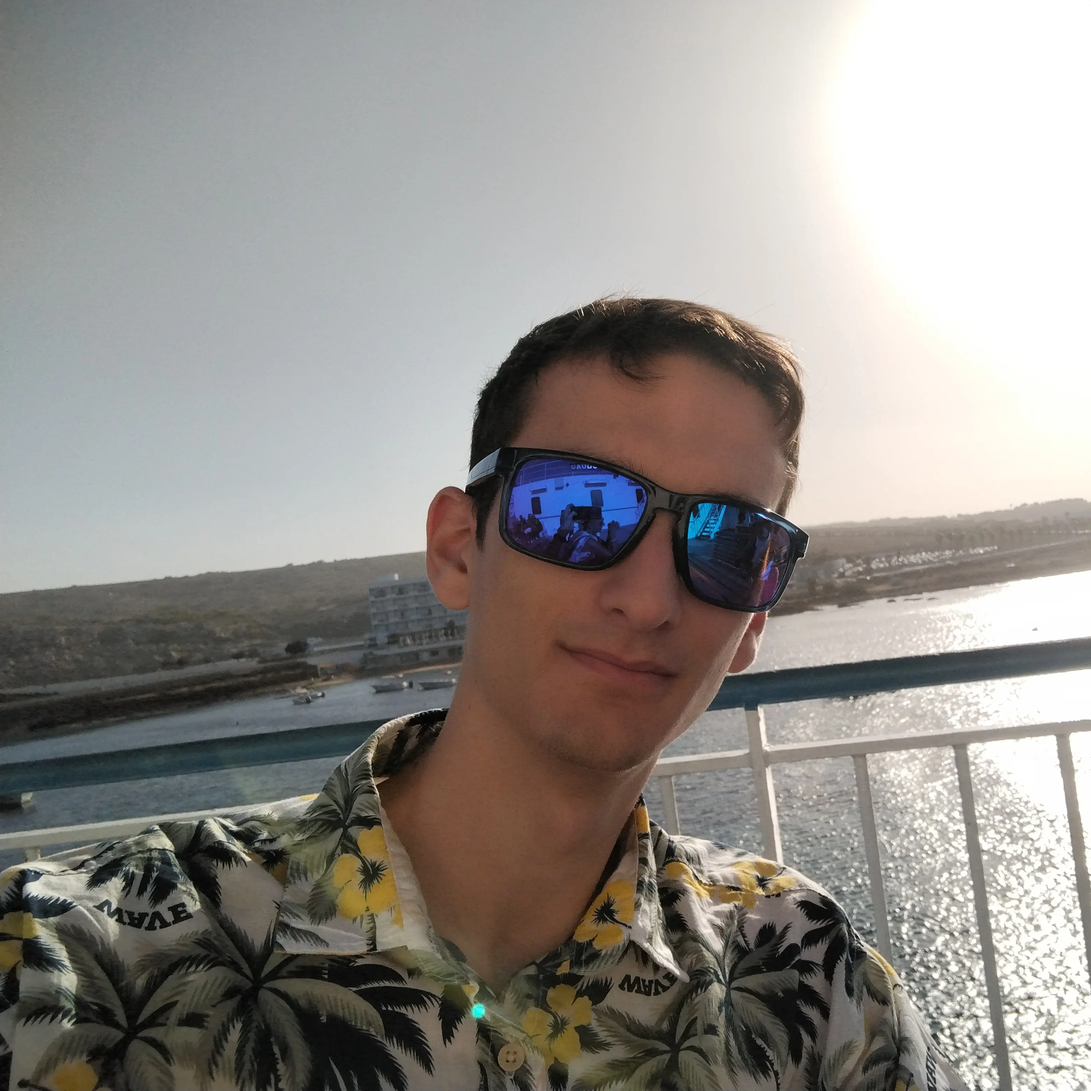
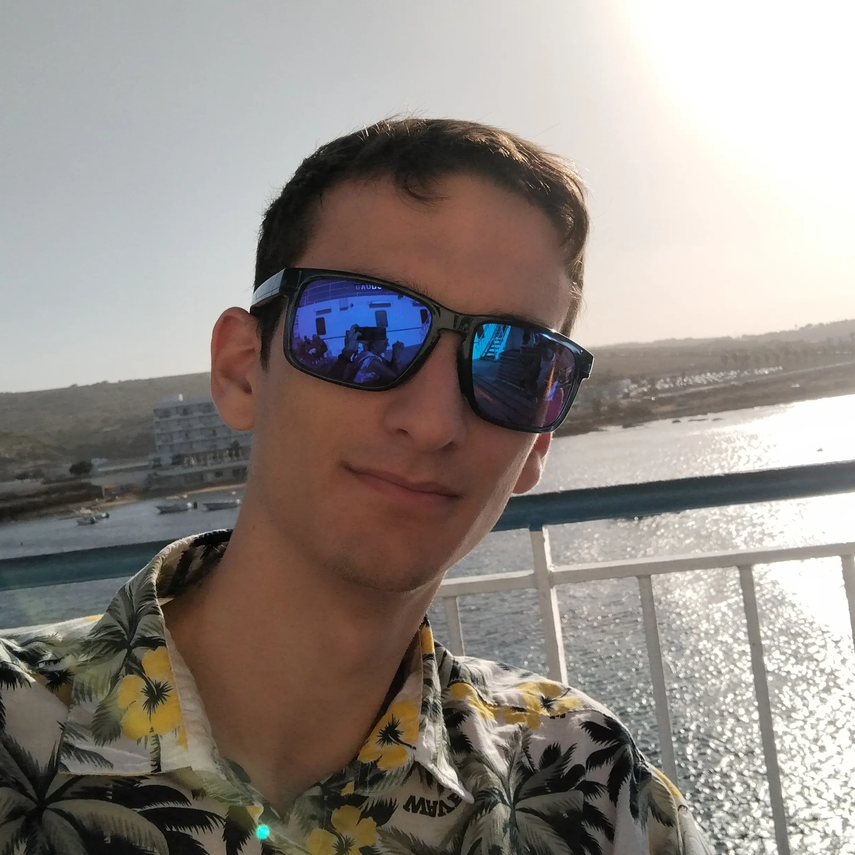
feat: change texts, images (#1)
* build: move compiled css to dist folder

* feat: add main responsive layout css

* feat: add custom colors

* feat: add gitlab icon

* feat: improve responsive layout

* fix: hero image overlap on navbar

* feat: add accessibility tags

* feat: switch image profile

* feat: rewrite texts, change hero image

diff --git a/src/index.html b/src/index.html
@@ -88,7 +88,7 @@
         <div
           class="flex gap-20 justify-center items-center lg:flex-col sm:gap-5">
           <img
-            src="./media/images/nioIngrandito.webp"
+            src="./media/images/malta2.webp"
             alt="profile image"
             class="max-w-[500px] rounded-full md:w-full p-5" />
           <!-- hero text -->
@@ -113,24 +113,20 @@
         <div class="max-w-sm lg:max-w-xl md:mx-14 sm:mx-4">
           <h2 class="mb-5 text-3xl">My skills</h2>
           <p class="text-justify">
-            Currently, I am a student at ITTS O. Belluzzi in Rimini, Italy. Over
-            the past few years, I have focused on C# as my primary programming
-            language, building a strong foundation in Object-Oriented
-            Programming.
+            As a student at ITTS O. Belluzzi in Rimini, Italy, I have developed
+            a strong foundation in Object-Oriented Programming with a primary
+            focus on C#.
             <br />
-            Additionally, I have studied C, JavaScript, and Assembly 8086 as
-            supplementary languages. At present, I am acquiring network
-            management skills using Cisco Packet Tracer.
+            In addition, I have studied supplementary languages such as C,
+            JavaScript, and Assembly 8086. Currently, I am acquiring network
+            management skills using Cisco Packet Tracer, and this year, I am
+            delving into the intricacies of database design and manipulation
+            through the study of database science.
           </p>
           <br />
           <p class="text-justify">
-            This year, I am studying database science, delving into the
-            intricacies of database design and manipulation.
-          </p>
-          <br />
-          <p class="text-justify">
-            Recently, I switched to using Linux as my primary operating system
-            and find it incredibly convenient.
+            I switched to using Linux as my primary operating system and
+            dual-booting with Windows 11 (I use Arch btw 🚀)
           </p>
         </div>
         <!-- tools-box-work -->
@@ -226,39 +222,40 @@
         <div>
           <h2 class="mt-5 mb-4 text-3xl">About myself</h2>
           <p>
-            Hello, my name is Federico Cangiotti and I'm 18 years old and my
-            main hobbies are music, swimming and trekking.
+            Hello, I am Federico Cangiotti, I'm 18-year-old and I enjoy music,
+            swimming and trekking.
           </p>
           <p>
-            Usually I don't travel far from home, but recently I left Italy for
-            the first time and visited Malta.
+            Although I typically stay close to home, I am always eager to
+            explore new places and try new things.
             <br />
-            It was very beautiful.
+            My recent trip to Malta was a beautiful experience (first time I
+            left Italy)
           </p>
           <br />
           <p>
-            My favorite type of music is jazz, blues, and soul, and sometimes, I
-            also enjoy listening to other genres, such as rock (Queen), pop, and
-            soundtracks from movies or video games. I create my own playlists
-            featuring artists like Raphael Gualazzi for my jazz music.
+            I have a diverse taste in music, ranging from jazz, blues, and soul
+            to rock, pop, and soundtracks from movies or video games. My jazz
+            playlists often feature artists like Raphael Gualazzi.
           </p>
           <p>
-            These playlists are made from me:
-            <span>
+            I curated these playlists myself:
+            <li>
               <a
+                class="underline"
                 href="https://open.spotify.com/playlist/0pWlrhsiYyXSqO7UqcVAK2?si=2e41c38447f54e0c"
                 aria-label="Link to spotify jazz playlist">
                 Jazz
               </a>
-            </span>
-            ,
-            <span>
+            </li>
+            <li>
               <a
+                class="underline"
                 href="https://open.spotify.com/playlist/13fsXhXuXIs1XzAjLAUdF8?si=f1b49cd8d84b440e"
                 aria-label="Link to spotify gualazzi playlist">
                 Raphael Gualazzi
               </a>
-            </span>
+            </li>
           </p>
           <br />
           <p>My favorite artists:</p>
@@ -271,9 +268,9 @@
                 Raphael Gualazzi
               </a>
             </li>
-            <li>Ella Fitzgerald</li>
-            <li>Nina Simone</li>
-            <li>Louis Armstrong</li>
+            <li>The Black Eyed Peas</li>
+            <li>Michael Giacchino</li>
+            <li>Coldplay</li>
             <li>
               <a
                 class="underline"
@@ -284,13 +281,14 @@
             </li>
             <li>Queen</li>
             <li>MYO (Mondaino Young Orchestra)</li>
+            <li>Bruno Mars</li>
           </ul>
         </div>
         <div
           class="grid grid-cols-[repeat(8,75px)] grid-rows-[repeat(8,75px)] md:flex md:flex-wrap md:justify-center md:gap-5">
           <div class="painting-item1">
             <img
-              src="./media/images/malta2.webp"
+              src="./media/images/nioIngrandito.webp"
               alt="malta selfie"
               width="300px" />
           </div>
@@ -348,14 +346,14 @@
             <img src="./media/svgs/spotify.svg" alt="spotify logo" />
           </a>
           <a
-            href="https://gitlab.com/federicocangiotti"
-            aria-label="Link to gitlab profile">
-            <img src="./media/svgs/gitlab.svg" alt="gitlab logo" />
-          </a>
-          <a
             href="https://github.com/federicocangiotti"
             aria-label="Link to github profile">
             <img src="./media/svgs/github.svg" alt="github logo" />
+          </a>
+          <a
+            href="https://gitlab.com/federicocangiotti"
+            aria-label="Link to gitlab profile">
+            <img src="./media/svgs/gitlab.svg" alt="gitlab logo" />
           </a>
           <a
             href="https://www.linkedin.com/in/federico-cangiotti-650049229"
